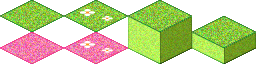
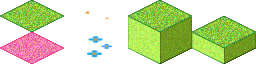
[Layer] make 2 layers

Changed region(s): [[0.25, 0.0, 0.5, 1.0]]

diff --git a/project/map/js/game.layer.js b/project/map/js/game.layer.js
@@ -6,7 +6,8 @@
 		_create: function () {
 			h.debug('info','[',this.options.fullName,'] Create', this.options);
 			this._makeCache();
-			this._buildLayer();
+			this.build(this.options.index);
+			this.showLayer();
 		},
 		init: function () {
 			/*
@@ -14,26 +15,24 @@
 			this._buildMap();
 			//*/
 		},
-		_buildLayer: function () {
-			var mapWidth = h.settings.game.world.mapX,
-				mapHeight = h.settings.game.world.mapY;
-			//*
-			for (var x = 0; x < mapWidth; x++) {
-				for (var y = 0; y < mapHeight; y++) {
+		build: function (layerIndex) {
+			for (var x = 0; x < this.mapWidth; x++) {
+				for (var y = 0; y < this.mapHeight; y++) {
 					h.mapStatic({
 						mapX : x,
 						mapY: y,
+						layerIndex: layerIndex,
 						$parent: this.$element
 					});
 				}
 			}
-			this.$element.appendTo(this.options.$parent);
-			//*/
 		},
 		_makeCache: function () {
 			this.$element = $('<div />', {
 				id: this.options.fullName +'-'+ this.options.index
 			});
+			this.mapWidth = h.settings.game.world.mapX;
+			this.mapHeight = h.settings.game.world.mapY;
 		},
 		_setMapSize: function () {
 			this.worldWidth = (h.settings.game.world.mapX + h.settings.game.world.mapY) * h.settings.map.cell.width / 2,
@@ -45,6 +44,9 @@
 				.css({
 					position: 'relative'
 				});
+		},
+		showLayer: function () {
+			this.$element.prependTo(this.options.$parent);
 		}
 	});
 }(hiswe, jQuery));

diff --git a/project/map/js/game.world.js b/project/map/js/game.world.js
@@ -6,24 +6,43 @@
 		_create: function () {
 			h.debug('info','[',this.options.fullName,'] Create');
 			this._makeCache();
+			this._createCustomLayers();
 		},
 		init: function () {
 			this._setMapSize();
 			this._buildMap();
 		},
-		_buildLayers: function (layerIndex) {
+		_buildLayers: function (layerIndex, layerType) {
 			this.layers = this.layers || [] ;
-			this.layers.push(h.gameLayer({
+			layerType = layerType || 'gameLayer';
+			this.layers.push(h[layerType]({
 				index: layerIndex,
 				$parent: this.$element
 			}));
 		},
 		_buildMap: function () {
-			var mapWidth = h.settings.game.world.mapX,
-				mapHeight = h.settings.game.world.mapY;
-
 			this._buildLayers(1);
-			this._buildLayers(2);
+			this._buildLayers(2, 'gameFlowerLayer');
+		},
+		_createCustomLayers: function () {
+			h.object('game.flowerLayer','game.layer',{
+				build: function (layerIndex) {
+					for (var x = 0; x < this.mapWidth; x++) {
+						for (var y = 0; y < this.mapHeight; y++) {
+							if (Math.random() > 0.9) {
+								var flowerType = (Math.random() > 0.25) ? 'whiteFlower' : 'blueFlower';
+								h.mapStatic({
+									template: '<div class="cell '+flowerType+'" />',
+									mapX : x,
+									mapY: y,
+									layerIndex: layerIndex,
+									$parent: this.$element
+								});
+							}
+						}
+					}
+				}
+			});
 
 		},
 		_makeCache: function () {

diff --git a/project/map/map.html b/project/map/map.html
@@ -19,9 +19,9 @@
                {mapConsole: "js/game.console.js"},
                {mapCoordinate: "js/map.coordinate.js"},
                {mapStatic: "js/map.static.js"},
-               {gameWorld: "js/game.world.js"},
-               {gameLayer: "js/game.layer.js"},
                {mapCell: "js/map.cell.js"},
+               {gameLayer: "js/game.layer.js"},
+               {gameWorld: "js/game.world.js"},
                "js/map.js"
             );
         </script>

diff --git a/project/map/js/map.static.js b/project/map/js/map.static.js
@@ -20,11 +20,13 @@
 			this.$cell.appendTo(this.options.$parent);
 		},
 		_positionCell: function (mapX, mapY, mapZ) {
-			var coord = this._mapToScreen(mapX, mapY, mapZ);
+			var coord = this._mapToScreen(mapX, mapY, mapZ),
+				zindex = mapX+mapY + this.options.layerIndex;
 
 			this.$cell.css({
-				left: coord.screenX+'px',
-				top: coord.screenY+'px'
+				'left': coord.screenX+'px',
+				'top': coord.screenY+'px',
+				'z-index': zindex
 			});
 		}
 	});

diff --git a/project/map/css/map.css b/project/map/css/map.css
@@ -31,10 +31,10 @@
 .cell.hover{
 	background-position: 0 -32px;
 }
-.flower{
+.whiteFlower{
 	background-position: -64px 0;
 }
-.flower.hover{
+.blueFlower{
 	background-position: -64px -32px;
 }
 .cell50,
